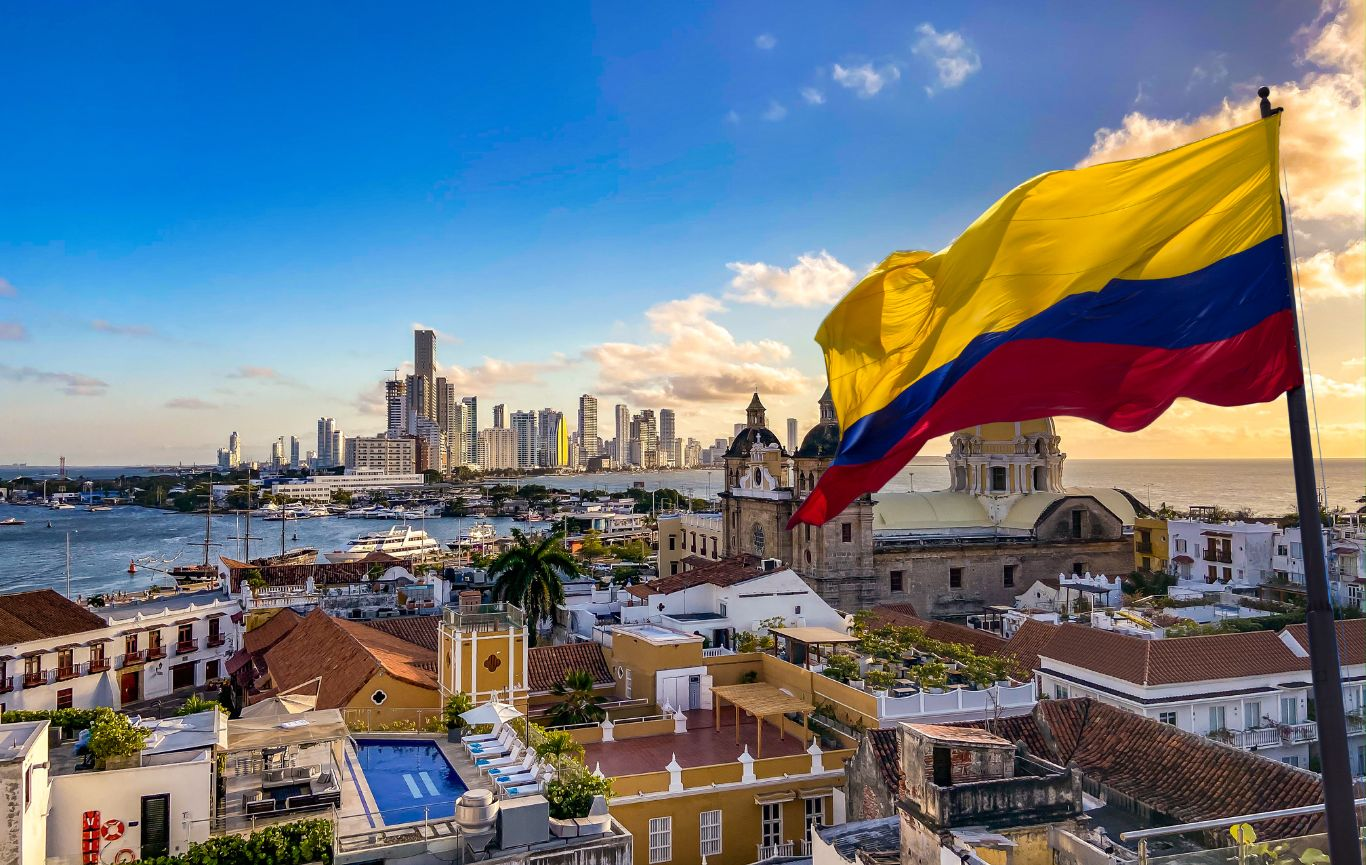
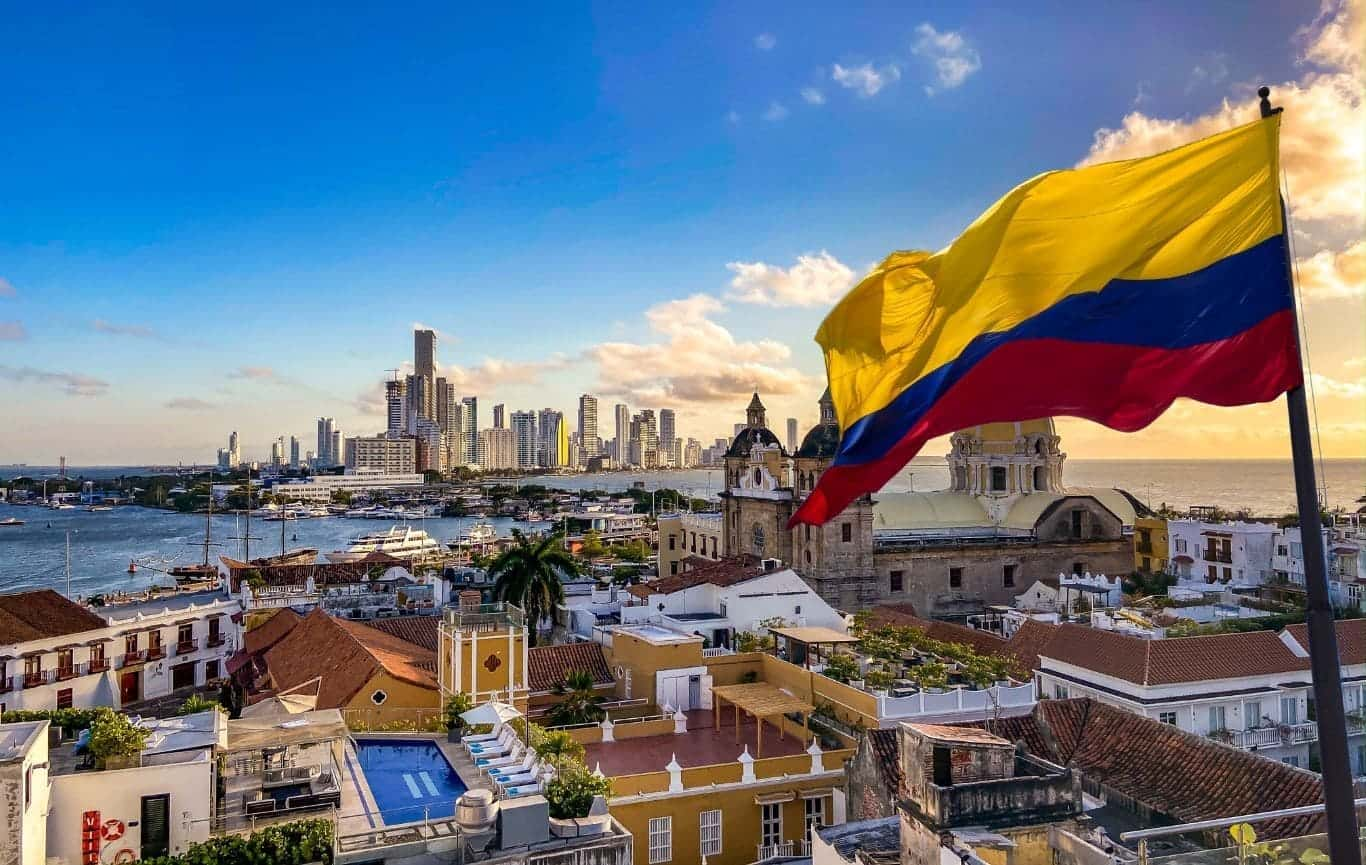
optimized images and corrected link target

diff --git a/index.html b/index.html
@@ -54,7 +54,7 @@
                 <li><a href="https://www.w3schools.com/" target="_blank">W3Schools</a></li>
                 <li><a href="https://javascript.info/" target="_blank">JavaScript.info</a></li>
                 <li><a href="https://www.freecodecamp.org/" target="_blank">freeCodeCamp</a></li>
-                <li><a href="https://www.theodinproject.com/">The Odin Project</a></li>
+                <li><a href="https://www.theodinproject.com/" target="_blank">The Odin Project</a></li>
             </ul>
         </section>
     </main>
